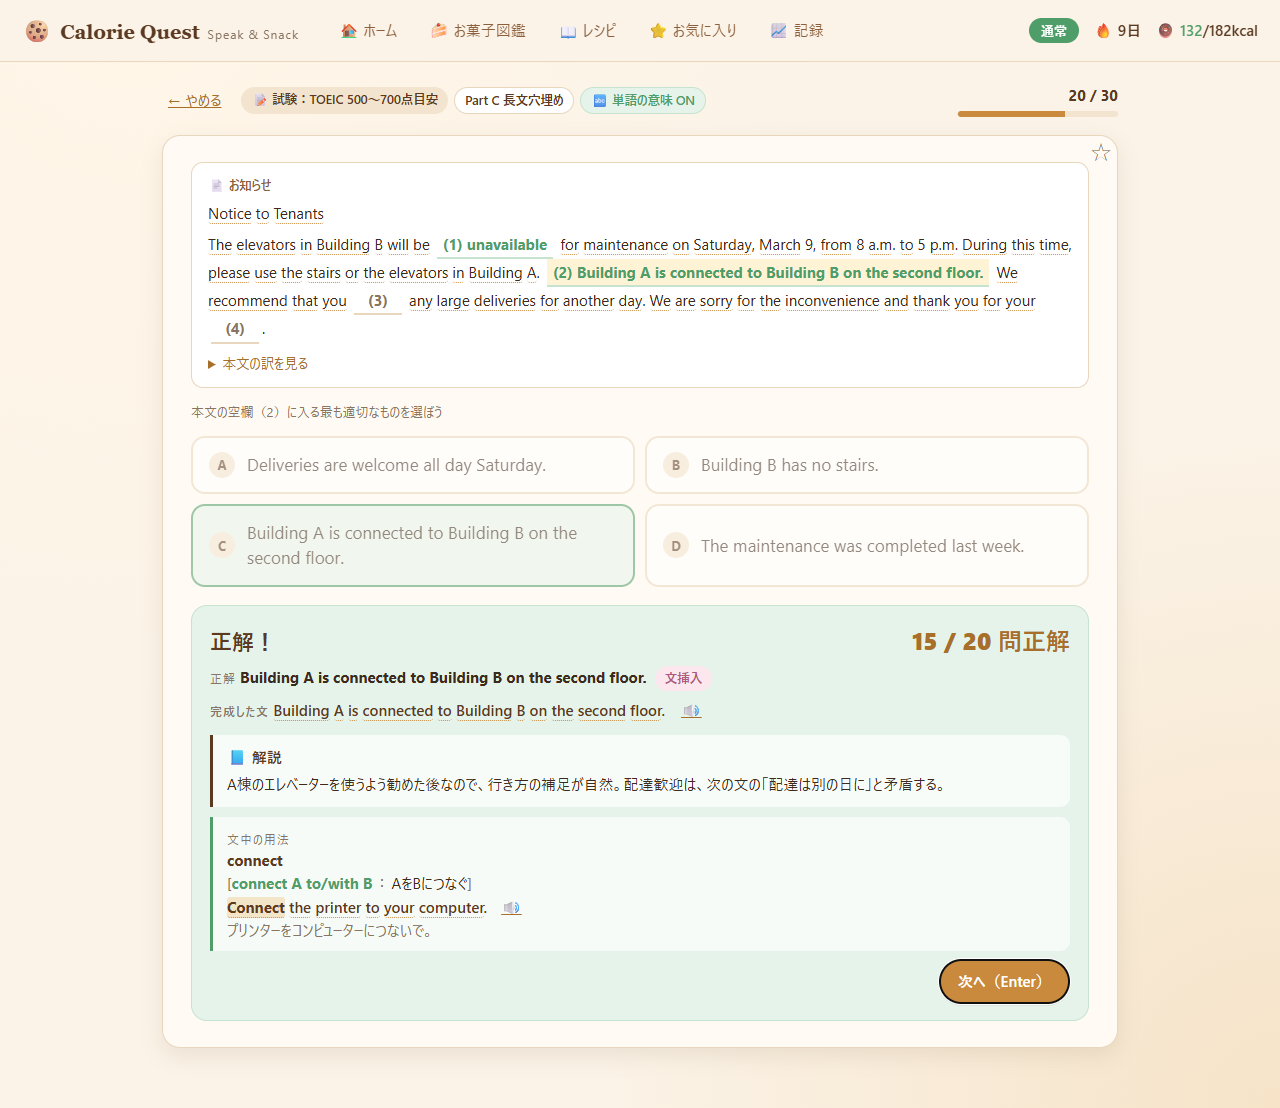
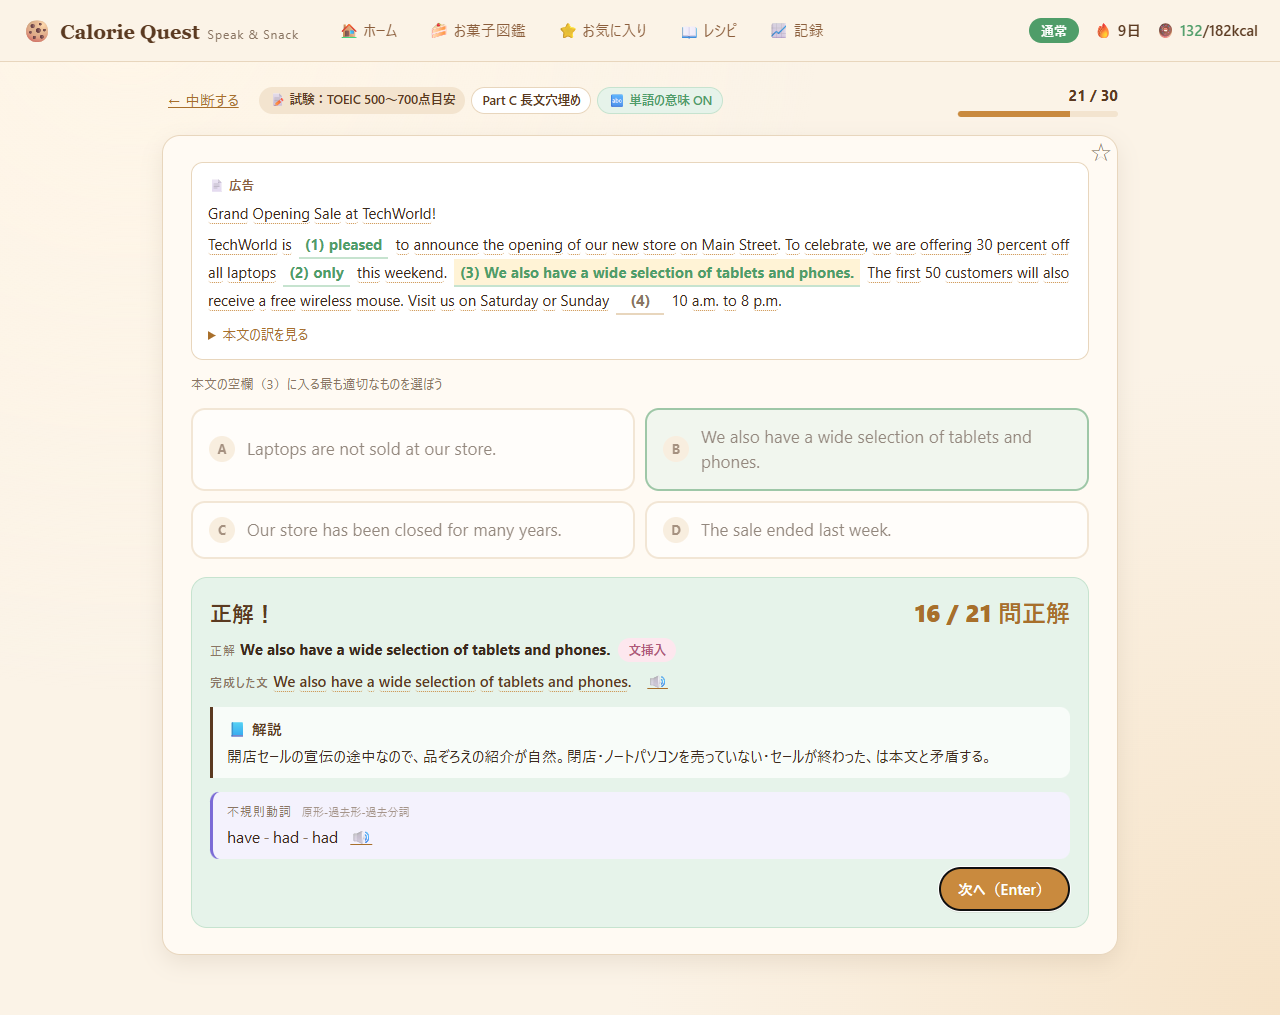
Retake the README screenshots for the current screens
All nine are taken again in the browser preview (mock data, 1280px) with the
same headless-Edge script as before. They now show the options of a word
question by their nuance (discuss), the recipe list with admit and decline by
theirs, an exam passage (an advertisement) with the sentence put in and an
irregular verb, and 記録's earned line in green. The alt texts say so.

diff --git a/README.md b/README.md
@@ -18,19 +18,19 @@
 
 | 単語問題の解説（例文・用法・類似表現） | 文法問題の解説と単語の意味 |
 | --- | --- |
-| ![英単語 discuss の選択問題に正解したところ。間違いの選択肢に緑で英語（spell・repeat・describe）、例文、用法 [discuss ～：about は付けない]、開いた類似表現（discuss と talk の違い）、右上の★（お気に入り）](docs/screenshots/word.png) | ![文法問題に正解したところ。完成した文、形容詞と副詞の使い分けの解説、単語 smiled にカーソルを合わせた意味の表示](docs/screenshots/study.png) |
+| ![英単語 discuss の選択問題に正解したところ。選択肢はニュアンス付き（（質問・電話・手紙に）答える など）で、間違いの選択肢に緑で英語（describe・answer・say）、例文、用法 [discuss A：about は付けない]、開いた類似表現（discuss と talk の違い）、右上の★（お気に入り）](docs/screenshots/word.png) | ![文法問題に正解したところ。完成した文、形容詞と副詞の使い分けの解説、単語 smiled にカーソルを合わせた意味の表示](docs/screenshots/study.png) |
 
 | 試験（TOEIC形式の長文穴埋め） | 試験の結果 |
 | --- | --- |
-| ![試験（TOEIC 500〜700点目安）の長文穴埋め。お知らせの空欄（1）（2）が埋まり、文挿入の正解と解説、文中の用法 connect A to/with B](docs/screenshots/exam.png) | ![試験の結果: 30問中25問正解（83%）で合格、おやつ予算 +150 kcal、パートごとの正答数と試験の復習への追加](docs/screenshots/exam-result.png) |
+| ![試験（TOEIC 500〜700点目安）の長文穴埋め。広告の空欄（1）（2）が埋まり、文挿入（3）の正解と解説、不規則動詞 have - had - had](docs/screenshots/exam.png) | ![試験の結果: 30問中25問正解（83%）で合格、おやつ予算 +150 kcal、パートごとの正答数と試験の復習への追加](docs/screenshots/exam-result.png) |
 
 | レシピ（単語帳） | お菓子図鑑（家計簿・貯蓄・並び替え） |
 | --- | --- |
-| ![レシピ: 品詞順にまとめた1行ずつの一覧（名詞・動詞・形容詞・副詞・慣用句・用法、習得済みは緑）、タブ・検索・並び替え、開いた用法 compare A with B の例文と訳](docs/screenshots/recipe.png) | ![お菓子図鑑: 今日のカロリー家計簿と取り消し、貯蓄の進み具合とお菓子引換券、並び替えできる1行ずつのお菓子の一覧（目標の★、食べた、引換券、自作の削除）](docs/screenshots/snacks.png) |
+| ![レシピ: 品詞順にまとめた1行ずつの一覧（名詞・動詞・形容詞・副詞・慣用句・用法、習得済みは緑）。類似表現のある語は意味をニュアンスで出す（admit「（事実・誤りを）しぶしぶ認める」、decline「減少する ／ （丁寧に）断る」）。タブ・検索・並び替え、開いた用法 compare A with B の例文と訳](docs/screenshots/recipe.png) | ![お菓子図鑑: 今日のカロリー家計簿と取り消し、貯蓄の進み具合とお菓子引換券、並び替えできる1行ずつのお菓子の一覧（目標の★、食べた、引換券、自作の削除）](docs/screenshots/snacks.png) |
 
 | お気に入り | 記録 |
 | --- | --- |
-| ![お気に入り: 分類のタブと出題形式のチップ、1行ずつの要約（文法と試験の穴埋めは完成した文で答えを太字、文法ポイントのタグ）、開いた文法問題の解説、学習の問題・試験の問題それぞれの復習ボタン](docs/screenshots/favorites.png) | ![記録画面: 累計学習日数・連続学習・最長ストリーク・平均獲得／消費カロリー、累計獲得カロリー・回答数・正答率、開いた分類×形式別の獲得カロリーの表、この2週間の獲得（茶）と消費（赤）の折れ線グラフ](docs/screenshots/stats.png) |
+| ![お気に入り: 分類のタブと出題形式のチップ、1行ずつの要約（文法と試験の穴埋めは完成した文で答えを太字、文法ポイントのタグ）、開いた文法問題の解説、学習の問題・試験の問題それぞれの復習ボタン](docs/screenshots/favorites.png) | ![記録画面: 累計学習日数・連続学習・最長ストリーク・平均獲得／消費カロリー、累計獲得カロリー・回答数・正答率、開いた分類×形式別の獲得カロリーの表、この2週間の獲得（緑）と消費（赤）の折れ線グラフ](docs/screenshots/stats.png) |
 
 <sub>画面はブラウザプレビュー（`npm run dev`、モックデータ）で撮影したものです。数値はデモ用です。</sub>
 
